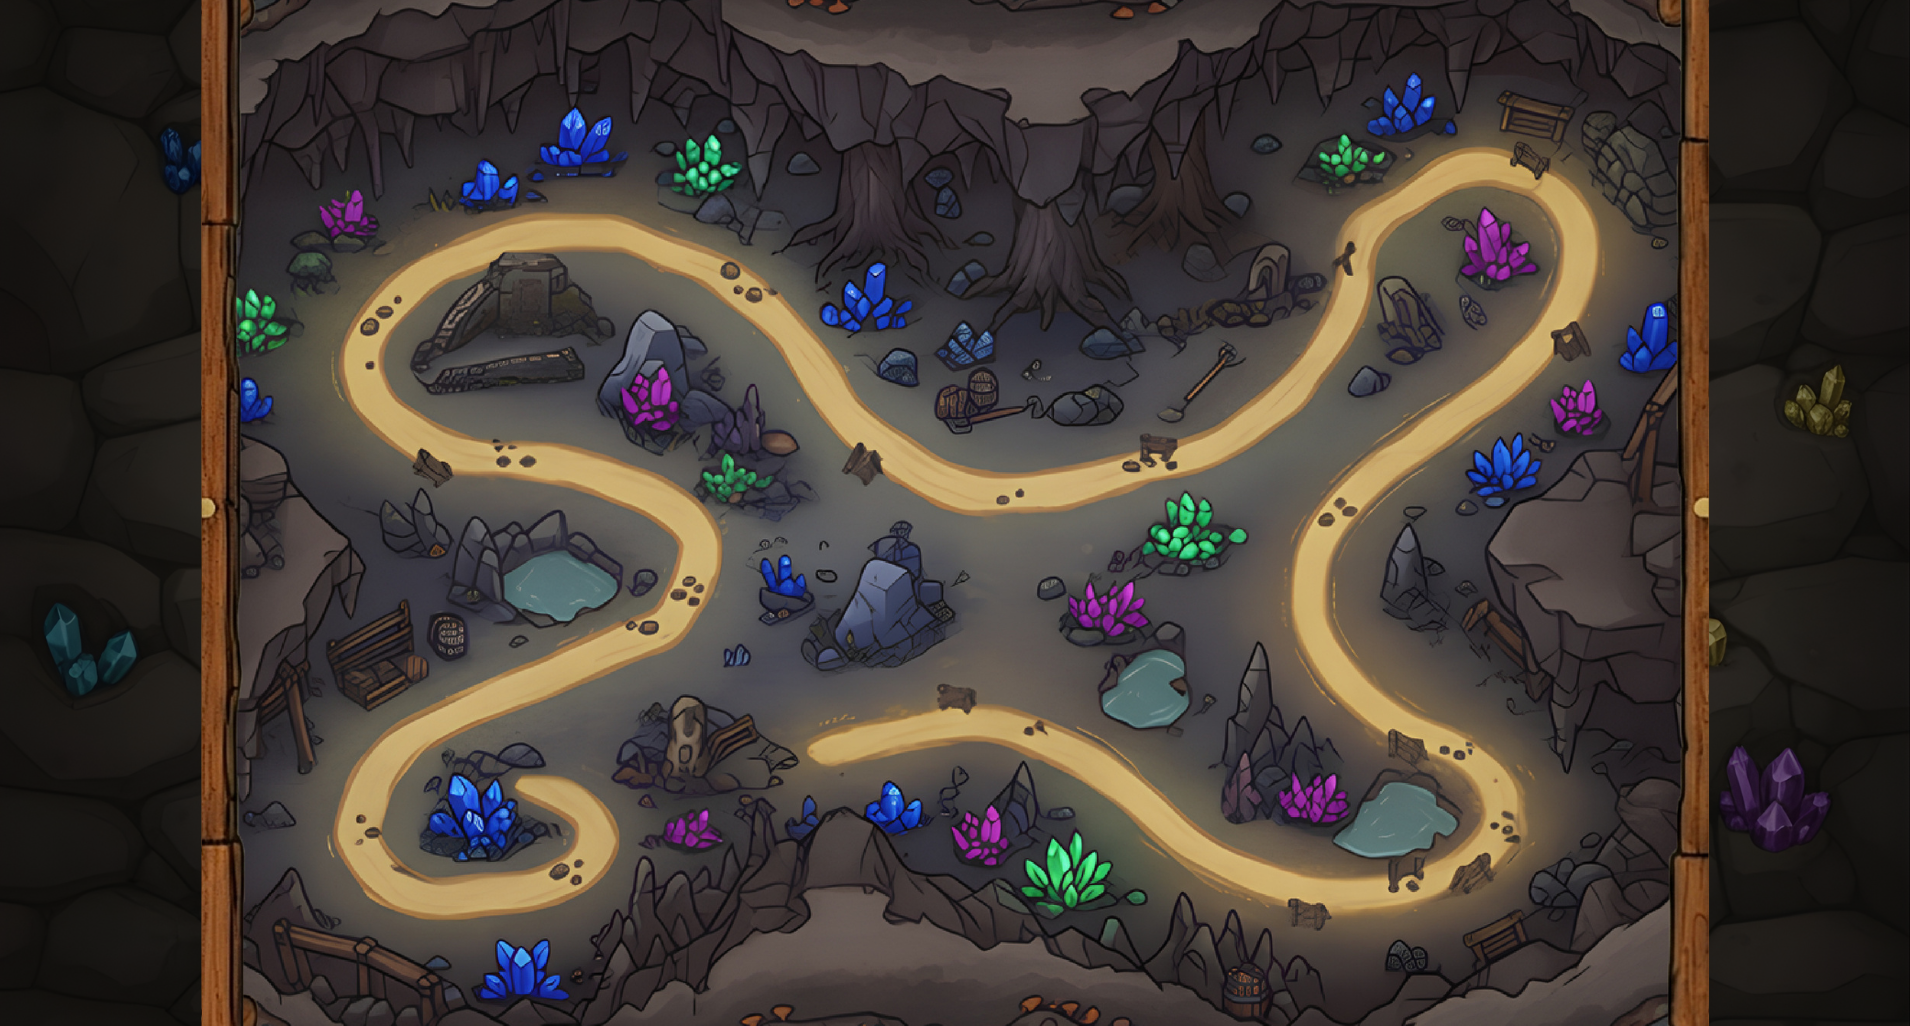
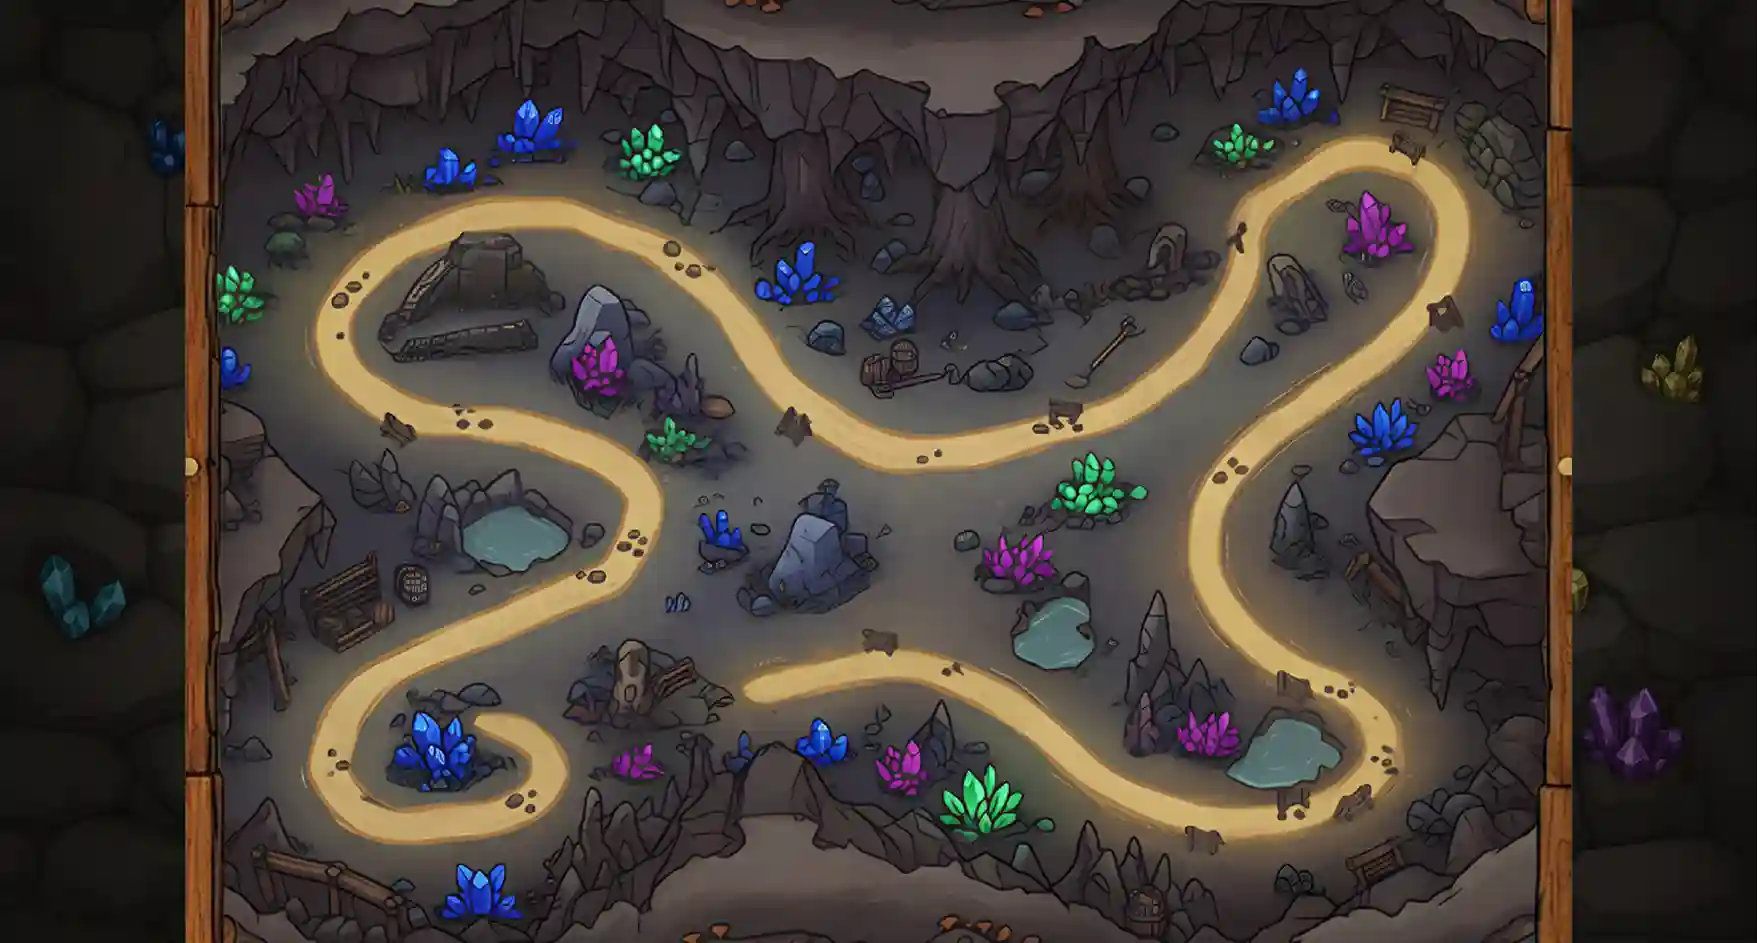
perf: comprimindo imagens

diff --git a/components/styles/quiz.css b/components/styles/quiz.css
@@ -165,7 +165,7 @@
     display: flex;
     align-items: center;
     justify-content: center;
-    padding: 1rem 2rem;
+    padding: 1rem 1rem;
     width: auto;
     height: auto;
 }
